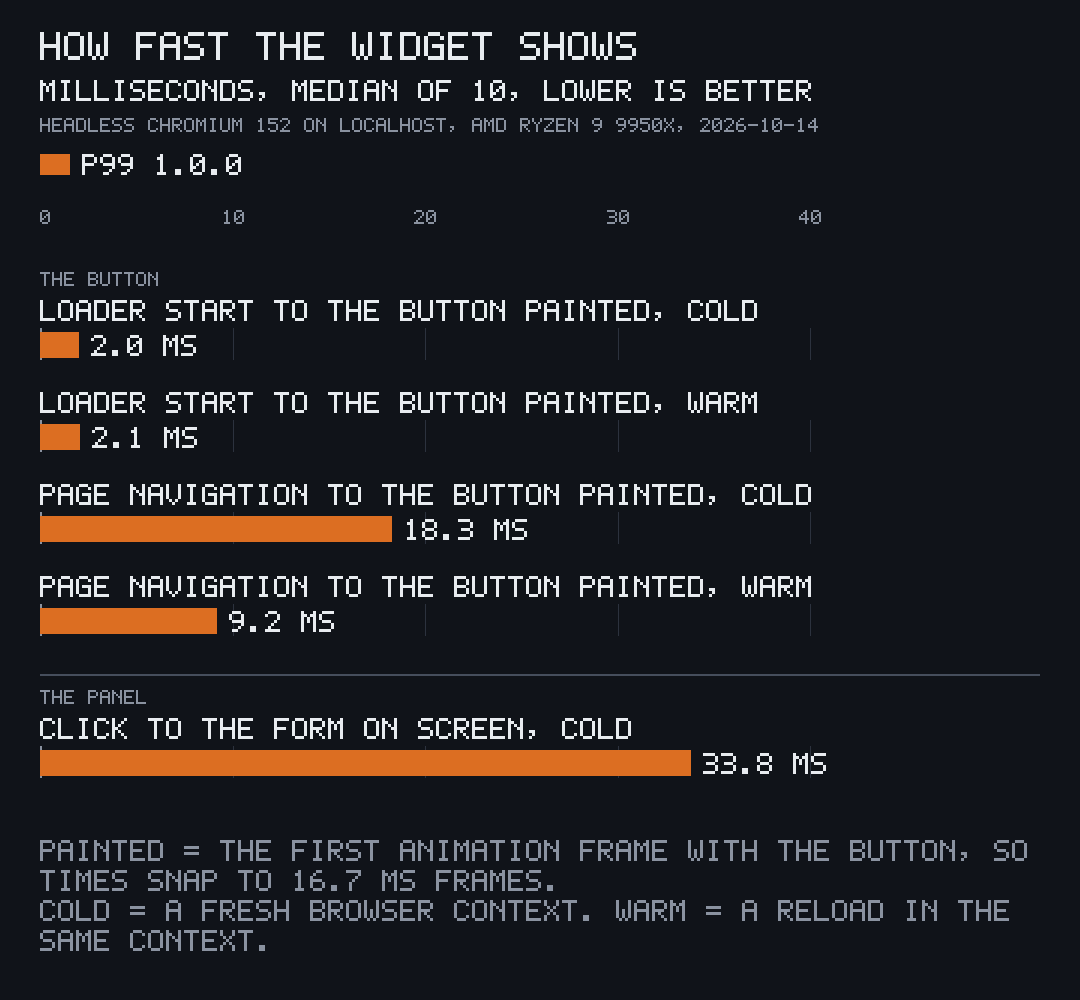
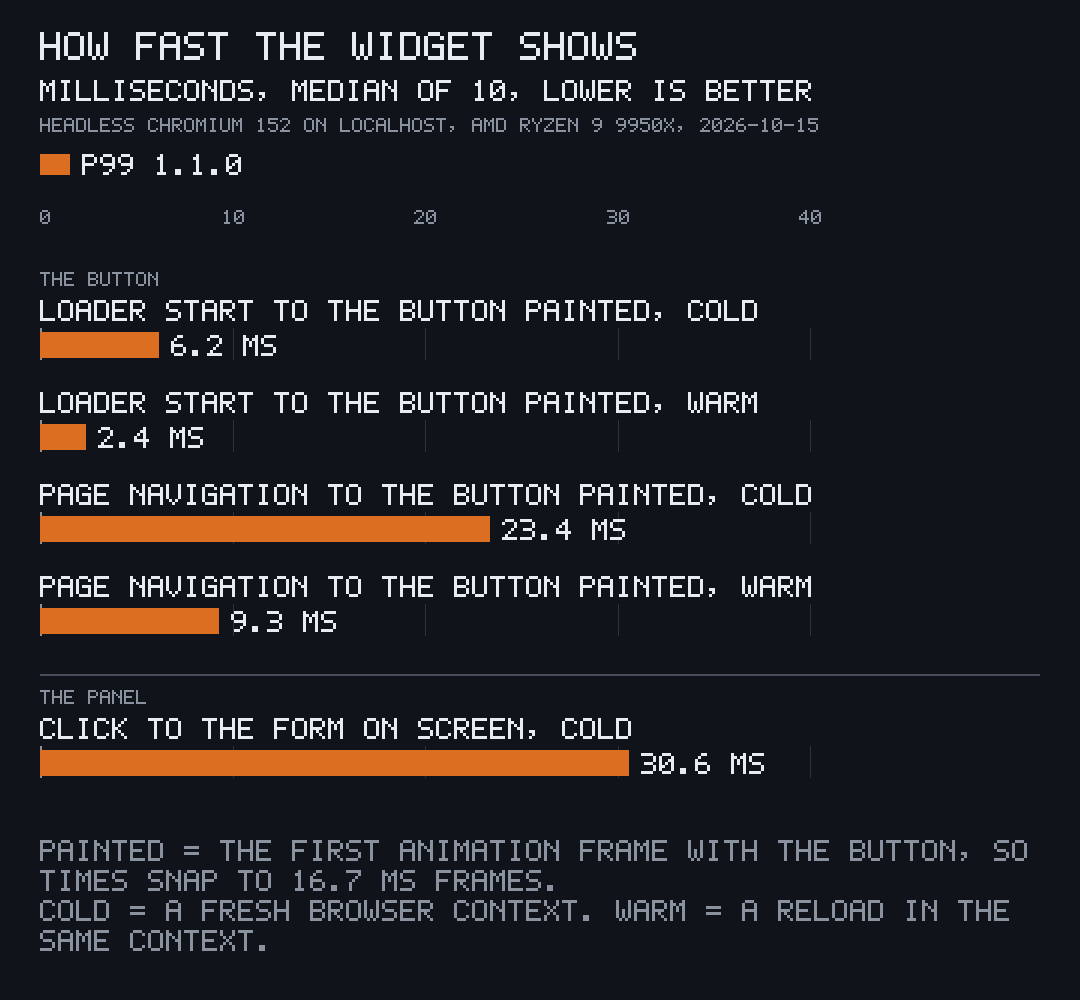
The README's numbers and charts show 1.1.0 as measured: the loader as served, the widget's load times and the TUI's frame times

diff --git a/README.md b/README.md
@@ -14,18 +14,18 @@ Works on Linux and macOS (Windows through WSL). The widget runs in any modern br
 
 | | |
 | --- | --- |
-| What every page downloads | **2,032 bytes** gzipped: the loader, nothing else |
-| Loader start to the "?" painted | **2.0 ms** median, cold |
-| Page navigation to the "?" painted | **18.3 ms** cold, **9.2 ms** warm (median of 10) |
-| Click to the panel's form on screen | **33.8 ms** median, cold: panel and styles load only then (27.3 KB gzipped) |
-| TUI frame time at 120×34 | **0.05 to 0.13 ms** average: 120 fps leaves 8.33 ms |
+| What every page downloads | **2,030 bytes** gzipped: the loader as served, nothing else |
+| Loader start to the "?" painted | **6.2 ms** cold, **2.4 ms** warm (median of 10) |
+| Page navigation to the "?" painted | **23.4 ms** cold, **9.3 ms** warm (median of 10) |
+| Click to the panel's form on screen | **30.6 ms** median, cold: panel and styles load only then (27.8 KB gzipped) |
+| TUI frame time at 120×34 | **0.05 to 0.12 ms** average: 120 fps leaves 8.33 ms |
 | Backend | **0** servers: one Cloudflare Worker, D1 and R2 per account |
 | Worker runtime dependencies | **0** (wrangler only to run its tests) |
 | p99 binary | **5.5 MB**, 10 direct crates, the Worker and widget embedded |
 
-Measured once on 2026-10-14 for 1.0.0: sizes with `gzip -9`; browser times in headless Chromium 152 on localhost, an AMD Ryzen 9 9950X, where "painted" is the first animation frame with the button (so times snap to 16.7 ms frames); TUI times with `p99 tui --demo --bench 200` on a release build.
+Measured once on 2026-10-15 for 1.1.0: sizes with `gzip -9`, the loader as a host with no placement settings gets it; browser times in headless Chromium 152 on localhost, an AMD Ryzen 9 9950X, where "painted" is the first animation frame with the button (so times snap to 16.7 ms frames); TUI times with `p99 tui --demo --bench 200` on a release build.
 
-<p align="center"><img src="docs/images/web-sizes-bars.png" width="49%" alt="Bar chart of what a page downloads, in KB gzipped: the loader 2.0 on every page; on demand, the panel 21.4, its styles 5.3 and the capture library 10.8."> <img src="docs/images/web-times-bars.png" width="49%" alt="Bar chart of how fast the widget shows, median of 10 in milliseconds: loader start to the button painted 2.0 cold and 2.1 warm, page navigation to the button painted 18.3 cold and 9.2 warm, click to the panel's form 33.8 cold."></p>
+<p align="center"><img src="docs/images/web-sizes-bars.png" width="49%" alt="Bar chart of what a page downloads, in KB gzipped: the loader 2.0 on every page; on demand, the panel 22.5, its styles 5.3 and the capture library 10.8."> <img src="docs/images/web-times-bars.png" width="49%" alt="Bar chart of how fast the widget shows, median of 10 in milliseconds: loader start to the button painted 6.2 cold and 2.4 warm, page navigation to the button painted 23.4 cold and 9.3 warm, click to the panel's form 30.6 cold."></p>
 
 ## On your site
 

diff --git a/docs/api.md b/docs/api.md
@@ -67,7 +67,7 @@ The actor is `{"email","name","agent"?}`, `agent` `true` when an agent acts as t
 | `GET /_p99/v1/envs` | managers | `{"envs":[{"name","kind","position","notify"}]}` |
 | `PUT /_p99/v1/envs/{name}` | the key | `{"kind":"development"\|"release","position","notify"}`; 200 env |
 | `GET /_p99/v1/codes?host=` | the key | `{"codes":[code]}`, newest first |
-| `POST /_p99/v1/codes` | the key | `{"name","email","hosts":["…"],"manager"}`; 201 `{"code":code,"secret":"<12 characters>","links":["https://<host>/#p99=<secret>"]}`; the secret is shown this once |
+| `POST /_p99/v1/codes` | the key | `{"name","email","hosts":["…"],"manager","client_uid"}`; 201 `{"code":code,"secret":"<12 characters>","links":["https://<host>/#p99=<secret>"]}`; the secret is shown this once, and the same `client_uid` again answers 200 `{"code":code}` without it |
 | `POST /_p99/v1/codes/{id}/revoke` | the key | 200 code |
 | `GET /_p99/v1/admin/backup-status` | managers | the last and the running backup |
 | `POST /_p99/v1/import`, `PUT /_p99/v1/import/attachments/{uid}`, `POST /_p99/v1/import/finish` | the key | an import that keeps keys and numbers, as [import.md](import.md) describes |
